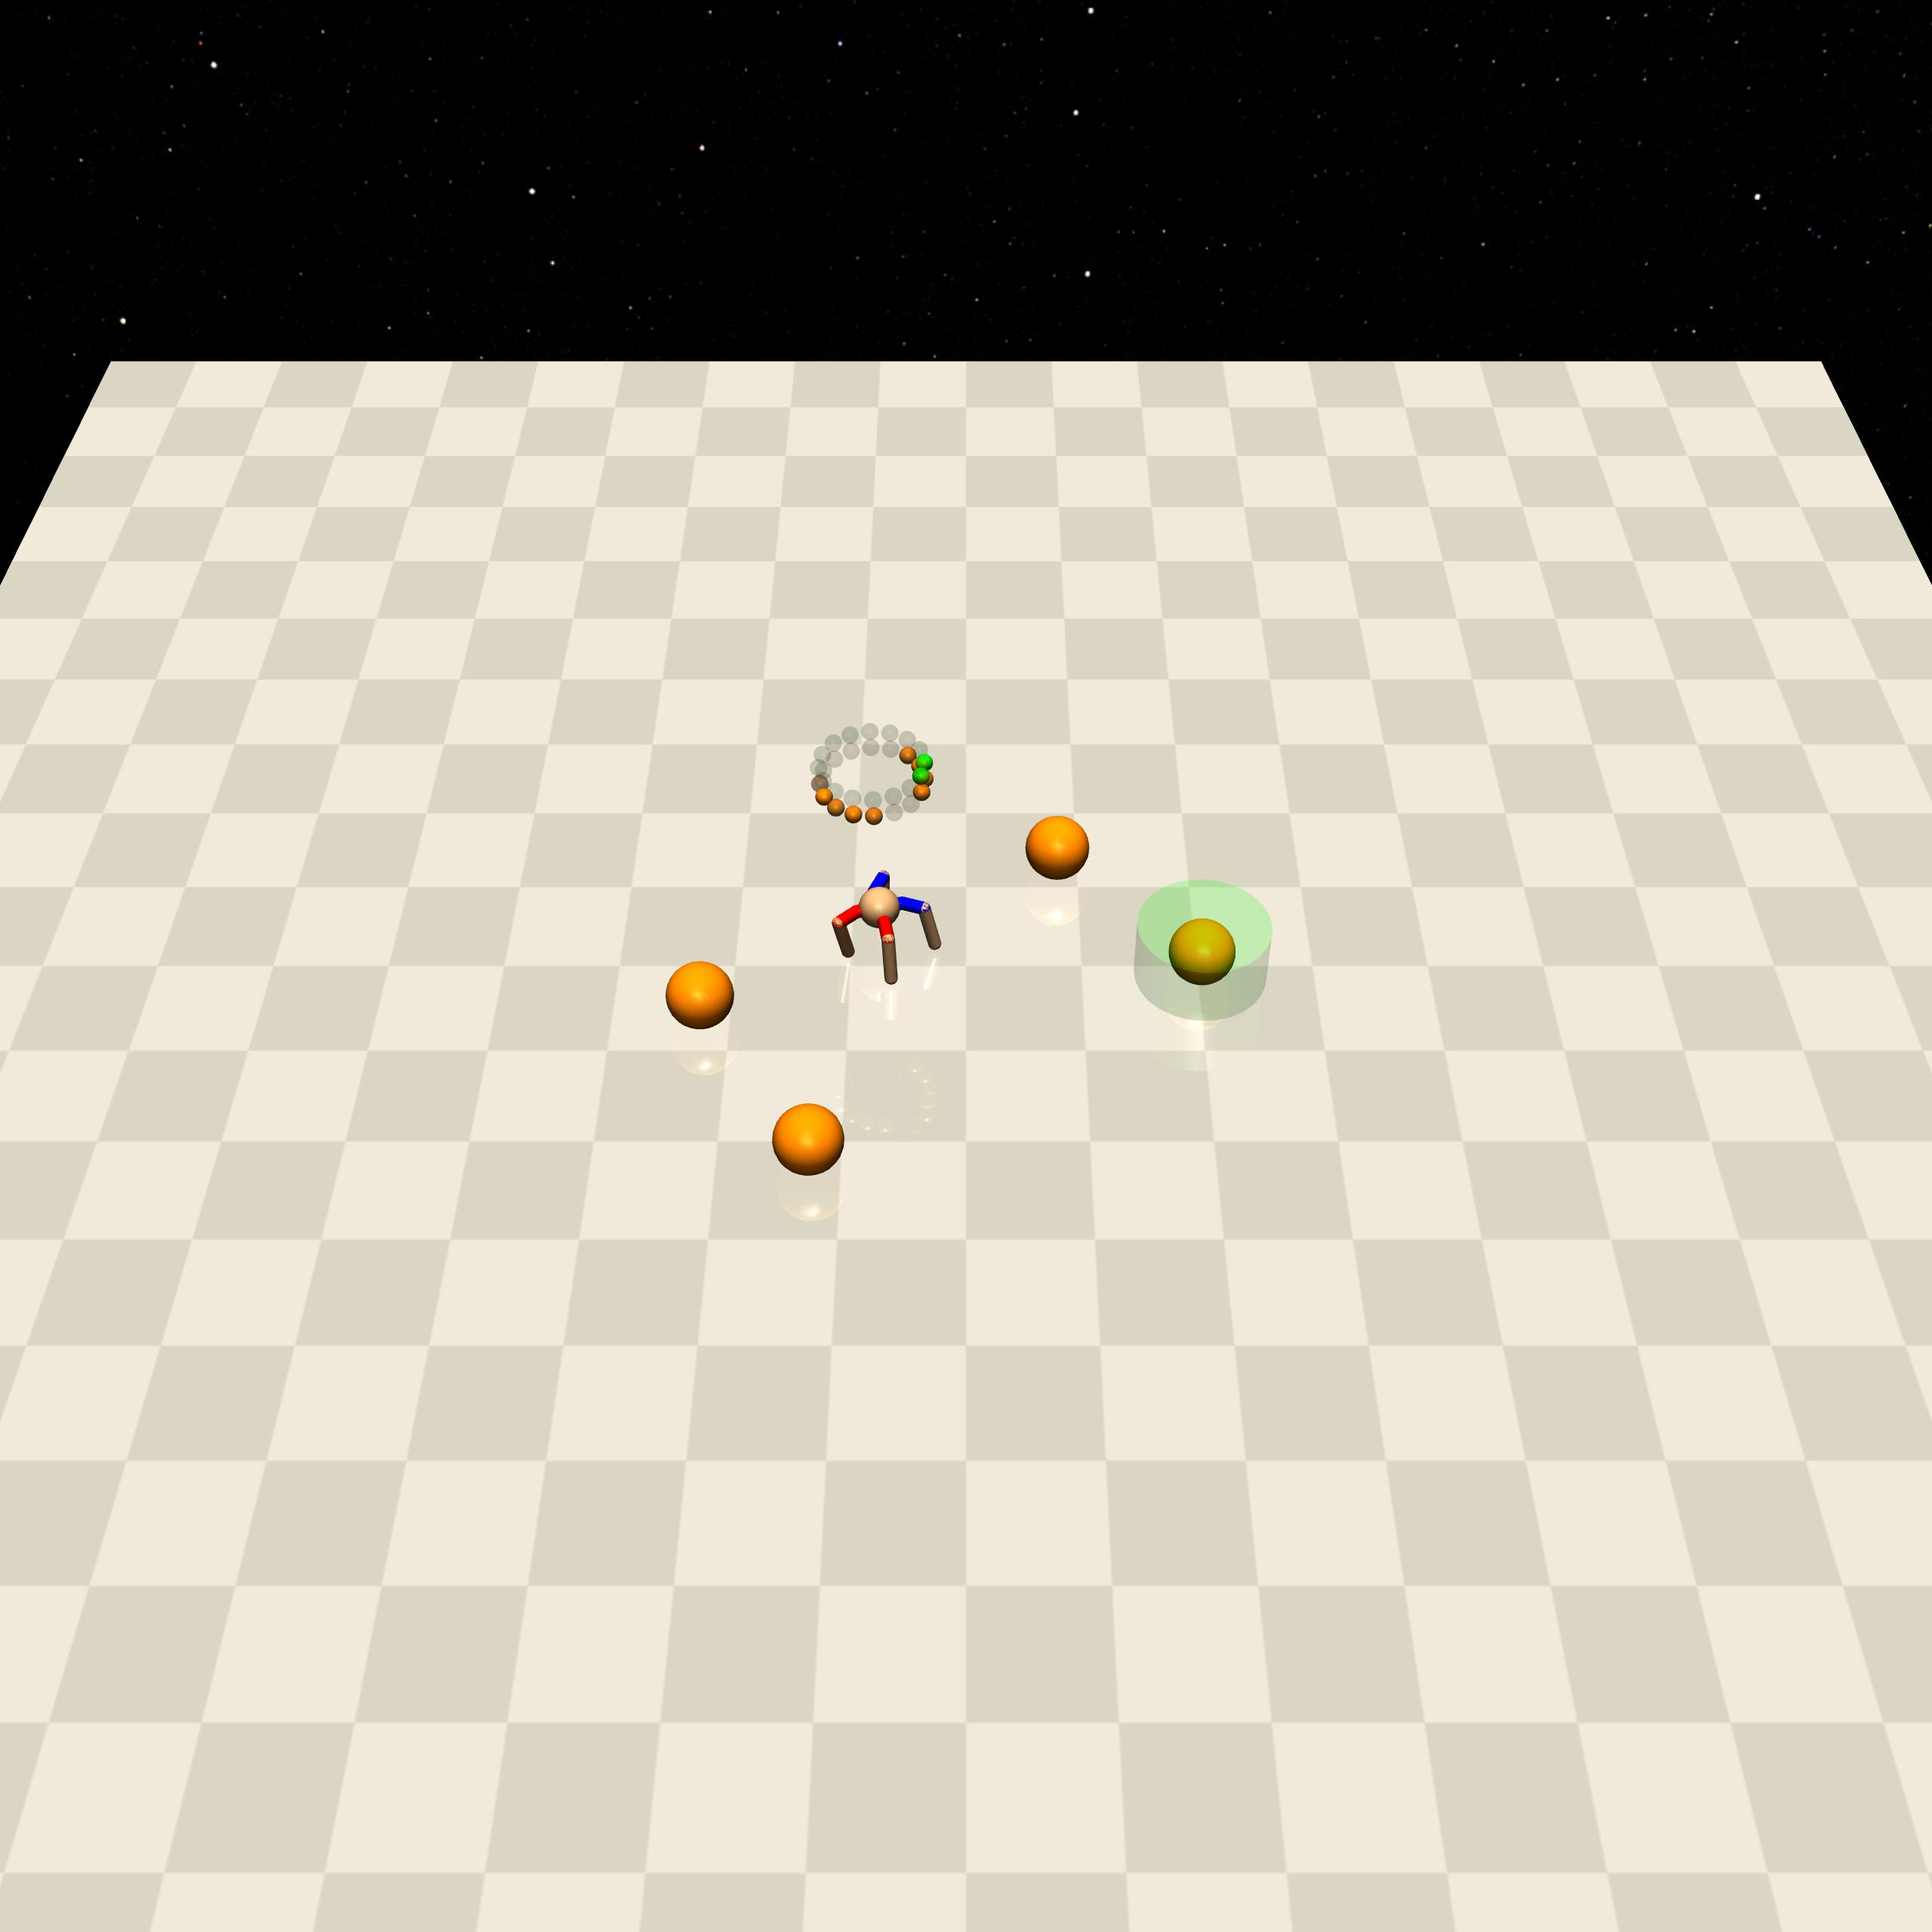
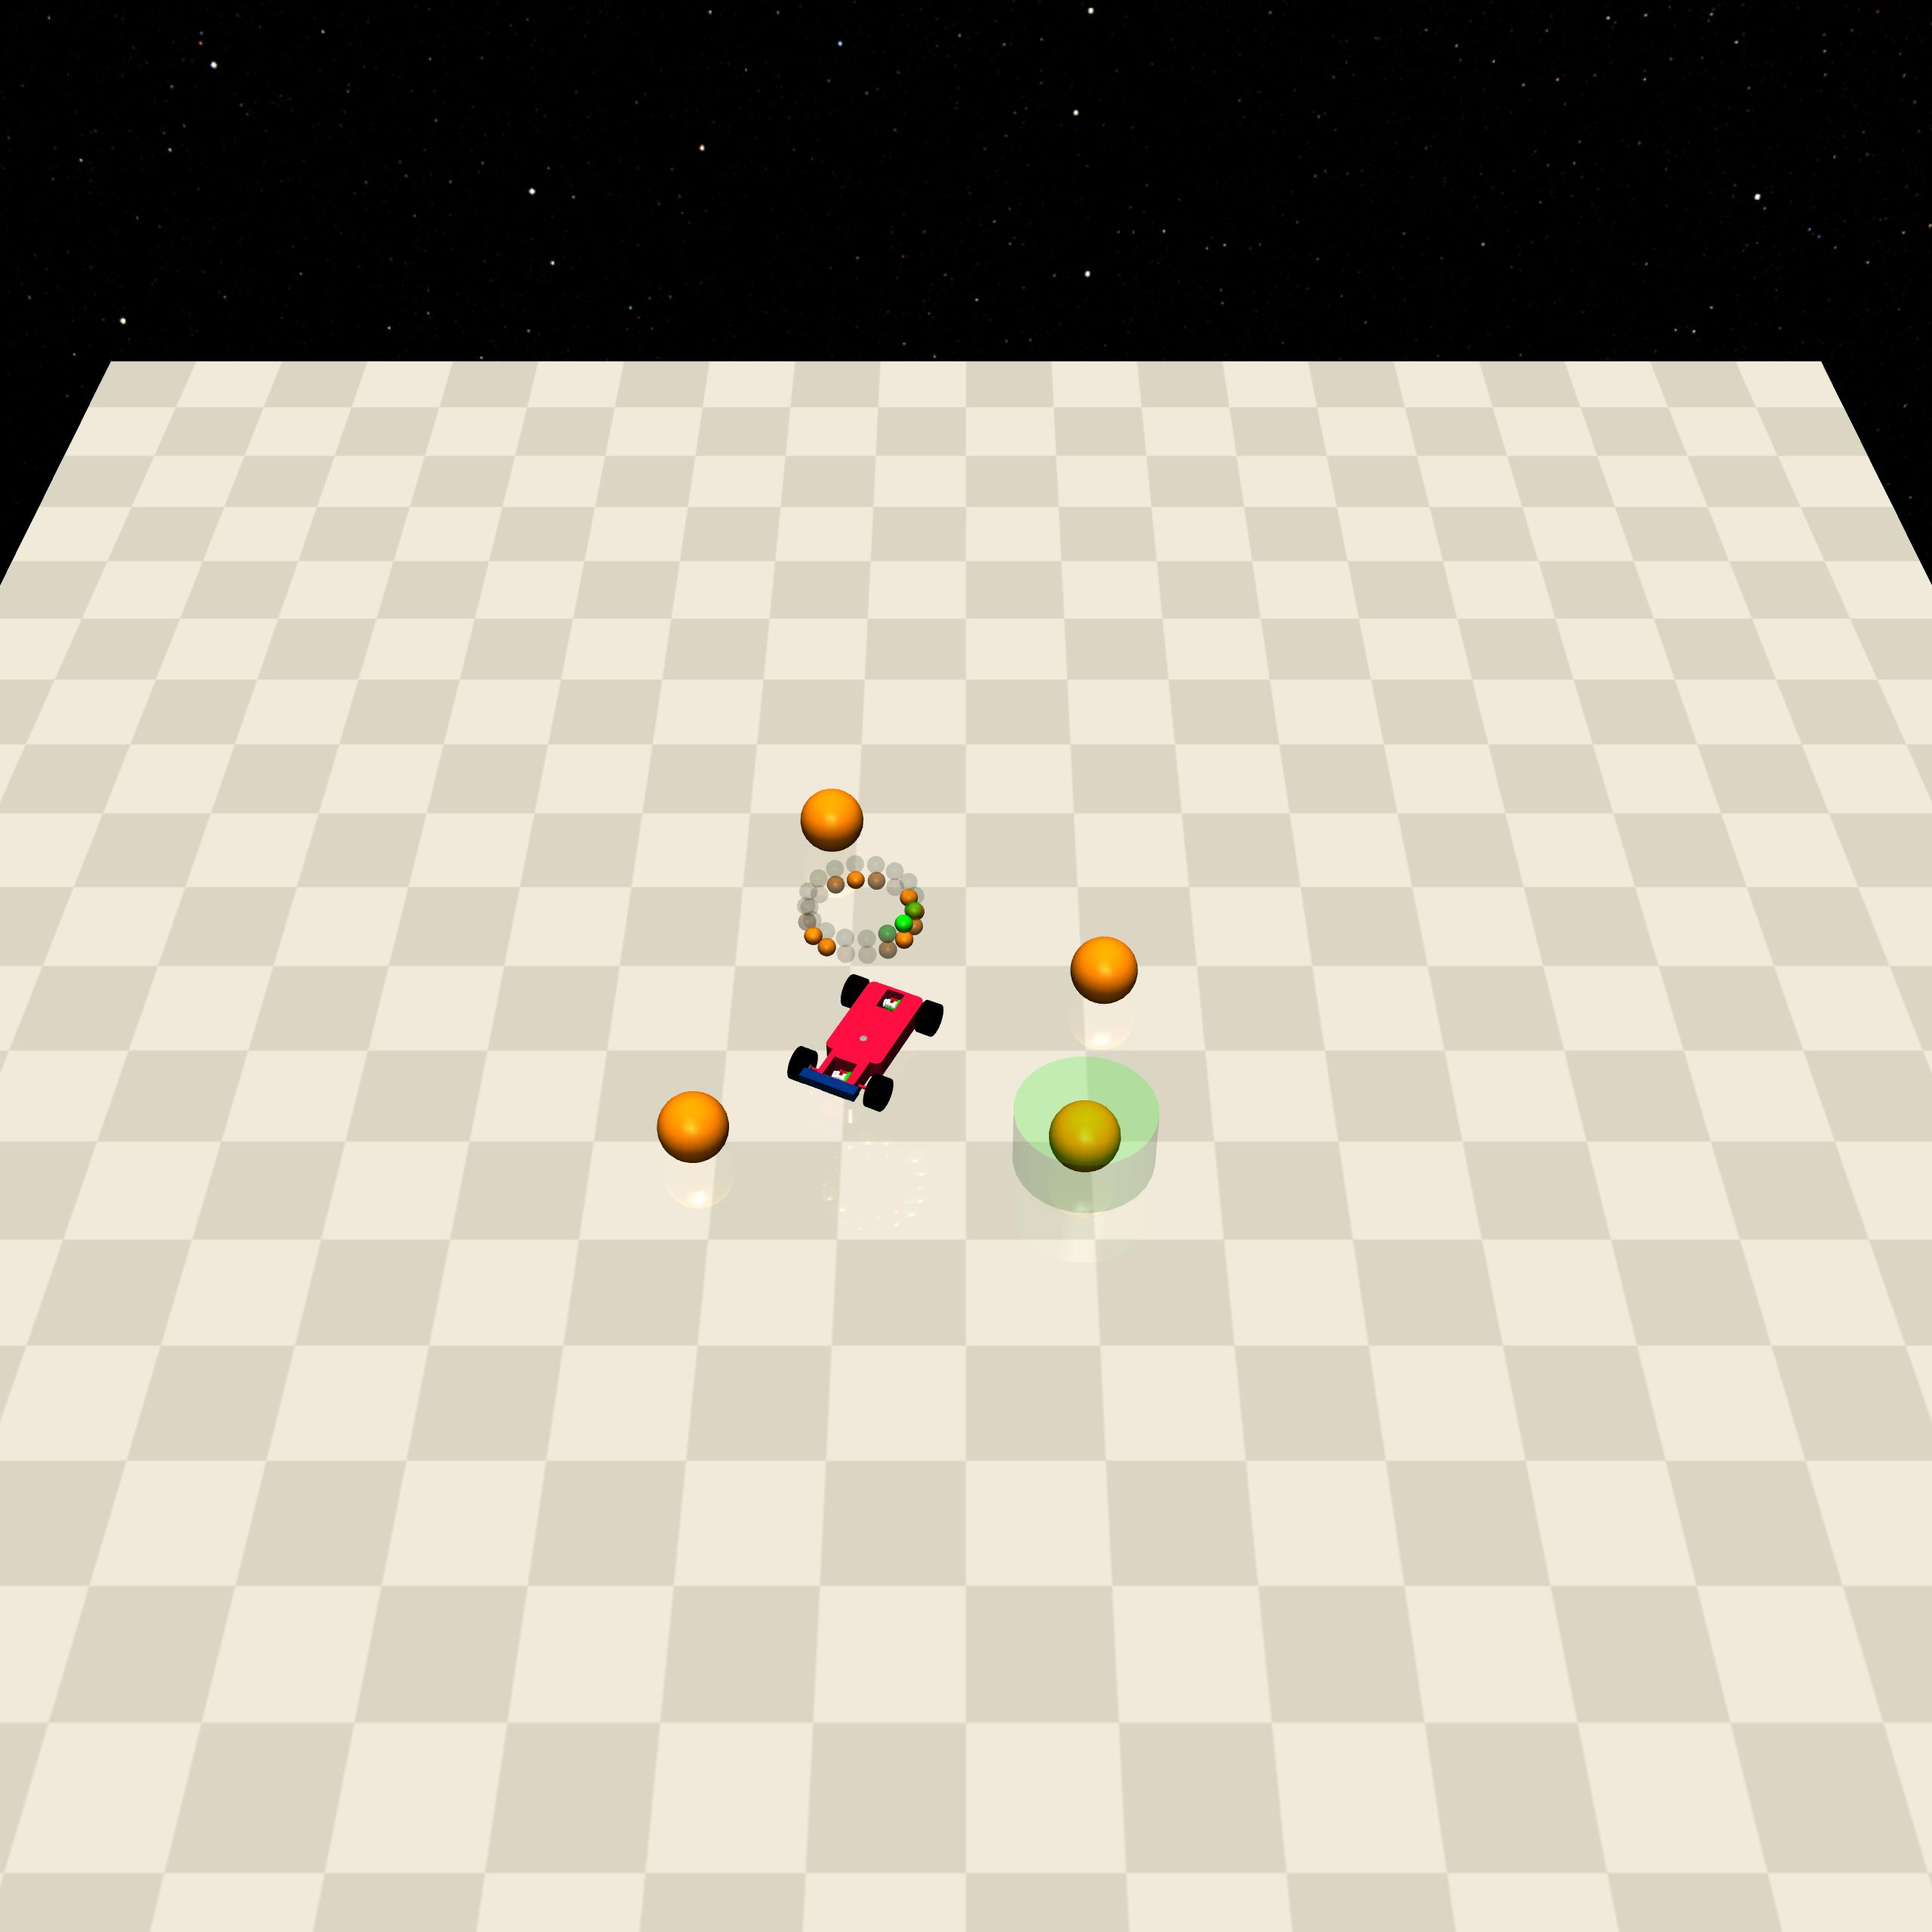
update docs

diff --git a/docs/components_of_environments/tasks.rst b/docs/components_of_environments/tasks.rst
@@ -1,8 +1,68 @@
 Tasks
 ==========
 
-.. image:: ../_static/images/tasks.png
-    :align: center
+Navigation
+----------
+
+.. list-table:: 
+
+    * - .. figure:: ../_static/images/goal0.jpeg
+            :width: 230px
+            :target: ./goal#goal0
+        .. centered:: :ref:`Goal0 <Goal0>`
+      - .. figure:: ../_static/images/goal1.jpeg
+            :width: 230px
+            :target: ./goal#goal1
+        .. centered:: :ref:`Goal1 <Goal1>`
+      - .. figure:: ../_static/images/goal2.jpeg
+            :width: 230px
+            :target: ./goal#goal2
+        .. centered:: :ref:`Goal2 <Goal2>`
+    * - .. figure:: ../_static/images/button0.jpeg
+            :width: 230px
+            :target: ./button#button0
+        .. centered:: :ref:`Button0 <Button0>`
+      - .. figure:: ../_static/images/button1.jpeg
+            :width: 230px
+            :target: ./button#button1
+        .. centered:: :ref:`Button1 <Button1>`
+      - .. figure:: ../_static/images/button2.jpeg
+            :width: 230px
+            :target: ./button#button2
+        .. centered:: :ref:`Button2 <Button2>`
+    * - .. figure:: ../_static/images/push0.jpeg
+            :width: 230px
+            :target: ./push#push0
+        .. centered:: :ref:`Push0 <Push0>`
+      - .. figure:: ../_static/images/push1.jpeg
+            :width: 230px
+            :target: ./push#push1
+        .. centered:: :ref:`Push1 <Push1>`
+      - .. figure:: ../_static/images/push2.jpeg
+            :width: 230px
+            :target: ./push#push2
+        .. centered:: :ref:`Push2 <Push2>`
+    * - .. figure:: ../_static/images/circle0.jpeg
+            :width: 230px
+            :target: ./circle#circle0
+        .. centered:: :ref:`Circle0 <Circle0>`
+      - .. figure:: ../_static/images/circle1.jpeg
+            :width: 230px
+            :target: ./circle#circle1
+        .. centered:: :ref:`Circle1 <Circle1>`
+      - .. figure:: ../_static/images/circle2.jpeg
+            :width: 230px
+            :target: ./circle#circle2
+        .. centered:: :ref:`Circle2 <Circle2>`
+    * - .. figure:: ../_static/images/coming_soon.png
+            :width: 230px
+        .. centered:: Coming soon...
+      - .. figure:: ../_static/images/coming_soon.png
+            :width: 230px
+        .. centered:: Coming soon...
+      - .. figure:: ../_static/images/coming_soon.png
+            :width: 230px
+        .. centered:: Coming soon...
 
 在Task当中，可以囊括特定Agents和Objects，进而定义环境自身的行为（如reward机制，reset机制等），从而组合为一个完整的Enviroment。
 

diff --git a/docs/components_of_environments/objects.rst b/docs/components_of_environments/objects.rst
@@ -52,7 +52,7 @@ Objects
 
     2. 环境当中的物体性质有差异，比如：有的物体可以参与计算cost，有的没有碰撞实体。下文介绍当中我们将给出提示。
     3. 所有可参与计算cost的物体根据任务难度可能不会成为约束，例如：Goal1当中碰撞vases并不产生cost。
-    4. 你可以根据需要定义或改变物体的 **cost计算公式** ， **数量** ， **位置** ， **碰撞属性** ， **密度** ， **移动范式** 等，以探索不同情况下RL算法的表现。
+    4. 你可以根据需要定义或改变物体的 **cost计算公式** ，**数量** ，**位置** ，**碰撞属性** ，**密度** ，**移动范式** 等，以探索不同情况下RL算法的表现。
 
 通用参数
 --------
@@ -164,10 +164,10 @@ Render lidar
     * - .. figure:: ../_static/images/lidar_far.jpeg
             :width: 230px
         .. centered:: far
-      - .. figure:: ../_static/images/lidar_mid.png
+      - .. figure:: ../_static/images/lidar_mid.jpeg
             :width: 230px
         .. centered:: mid
-      - .. figure:: ../_static/images/lidar_near.png
+      - .. figure:: ../_static/images/lidar_near.jpeg
             :width: 230px
         .. centered:: near
 

diff --git a/docs/introduction/about_safety_gymnasium.rst b/docs/introduction/about_safety_gymnasium.rst
@@ -12,16 +12,16 @@
 Safety-Gymnasium
 ----------------
 
-Safety-Gymnasium是为了服务于Safe RL领域研究而基于Python开发的一个 **高度模块化**， **代码精简易读** 并且 **易于自定义** 的基准环境。
+Safety-Gymnasium是为了服务于Safe RL领域研究而基于Python开发的一个 **高度模块化**，**代码精简易读** 并且 **易于自定义** 的基准环境。
 
 Feature
 ^^^^^^^^
 
 - 高度模块化，将一个环境的不同组成部分拆分为逻辑自洽的不同模块：agent, task, objects。
 - 代码精简易读，在保证 **可读性** 和 **美观性** 的前提下最大程度精简代码，每一个任务平均 **不超过100行** 代码。
-- 易于自定义， **精心设计的代码框架** 对于自定义环境的需求十分友好。
+- 易于自定义，**精心设计的代码框架** 对于自定义环境的需求十分友好。
 - 丰富可靠的环境，提供了 **Manipualtion** 和 **Vision** 两个新类别的任务。
-- 对经典Safe RL环境的良好支持与重构： **Safety-Gym** ， **Safety-Velocity**。
+- 对经典Safe RL环境的良好支持与重构： **Safety-Gym** ，**Safety-Velocity**。
 - 依赖少。
 - 易于安装。
 

diff --git a/docs/components_of_environments/agents/ant.rst b/docs/components_of_environments/agents/ant.rst
@@ -1,9 +1,21 @@
 Ant
 ==========
 
-.. image:: ../../_static/images/ant.jpeg
-    :align: center
-    :scale: 12 %
+.. list-table:: 
+
+    * - .. figure:: ../../_static/images/ant_front.jpeg
+            :width: 200px
+        .. centered:: front
+      - .. figure:: ../../_static/images/ant_back.jpeg
+            :width: 200px
+        .. centered:: back
+      - .. figure:: ../../_static/images/ant_left.jpeg
+            :width: 200px
+        .. centered:: left
+      - .. figure:: ../../_static/images/ant_right.jpeg
+            :width: 200px
+        .. centered:: right
+
 
 一个四足机器人，基于 `High-Dimensional Continuous Control Using Generalized Advantage Estimation <https://arxiv.org/abs/1506.02438>`__ 当中提出的模型，在三维空间中运动，由一个躯干和四条腿连接在一起组成，每条腿由两个铰链连接肢体组成，同时又通过铰链与躯干连接。需要通过对八个铰链的驱动器施加力矩来协调四条腿向目标方向移动。
 

diff --git a/docs/components_of_environments/agents/racecar.rst b/docs/components_of_environments/agents/racecar.rst
@@ -1,9 +1,20 @@
 Racecar
 ==========
 
-.. image:: ../../_static/images/racecar.jpeg
-    :align: center
-    :scale: 12 %
+.. list-table:: 
+
+    * - .. figure:: ../../_static/images/racecar_front.jpeg
+            :width: 200px
+        .. centered:: front
+      - .. figure:: ../../_static/images/racecar_back.jpeg
+            :width: 200px
+        .. centered:: back
+      - .. figure:: ../../_static/images/racecar_left.jpeg
+            :width: 200px
+        .. centered:: left
+      - .. figure:: ../../_static/images/racecar_right.jpeg
+            :width: 200px
+        .. centered:: right
 
 一个更接近现实中汽车动力学的机器人，在三维空间中运动，它有两个位置伺服，一个调整后轮速度至目标速度，另一个调整前轮转向角度至目标角度。Racecar参考了广为人知的MIT Racecar项目的动力学模型。对于它来说，要完成指定目标，必须像人驾驶汽车一样，协调好轮胎的转向角度和速度之间的关系。
 

diff --git a/docs/components_of_environments/agents/point.rst b/docs/components_of_environments/agents/point.rst
@@ -1,9 +1,20 @@
 Point
 ==========
 
-.. image:: ../../_static/images/point.jpeg
-    :align: center
-    :scale: 12 %
+.. list-table:: 
+
+    * - .. figure:: ../../_static/images/point_front.jpeg
+            :width: 200px
+        .. centered:: front
+      - .. figure:: ../../_static/images/point_back.jpeg
+            :width: 200px
+        .. centered:: back
+      - .. figure:: ../../_static/images/point_left.jpeg
+            :width: 200px
+        .. centered:: left
+      - .. figure:: ../../_static/images/point_right.jpeg
+            :width: 200px
+        .. centered:: right
 
 一个被约束在2D平面上的简单机器人，拥有两个驱动器，一个用于转动，另一个用于向前/向后移动。这种分解控制方案使得机器人特别容易控制导航。在它前面有一个小正方形，这样既可以更容易直观地确定机器人的方向，也可以帮助Point推动出现在Push中的box。
 

diff --git a/docs/components_of_environments/agents.rst b/docs/components_of_environments/agents.rst
@@ -3,19 +3,19 @@ Agents
 
 .. list-table:: 
 
-    * - .. figure:: ../_static/images/point.jpeg
+    * - .. figure:: ../_static/images/point_front.jpeg
             :width: 230px
             :target: agents/point.html
         .. centered:: :doc:`agents/point`
-      - .. figure:: ../_static/images/car.jpeg
+      - .. figure:: ../_static/images/car_front.jpeg
             :width: 230px
             :target: agents/car.html
         .. centered:: :doc:`agents/car`
-      - .. figure:: ../_static/images/racecar.jpeg
+      - .. figure:: ../_static/images/racecar_front.jpeg
             :width: 230px
             :target: agents/racecar.html
         .. centered:: :doc:`agents/racecar`
-    * - .. figure:: ../_static/images/ant.jpeg
+    * - .. figure:: ../_static/images/ant_front.jpeg
             :width: 230px
             :target: agents/ant.html
         .. centered:: :doc:`agents/ant`

diff --git a/docs/components_of_environments/agents/car.rst b/docs/components_of_environments/agents/car.rst
@@ -1,9 +1,20 @@
 Car
 ==========
 
-.. image:: ../../_static/images/car.jpeg
-    :align: center
-    :scale: 12 %
+.. list-table:: 
+
+    * - .. figure:: ../../_static/images/car_front.jpeg
+            :width: 200px
+        .. centered:: front
+      - .. figure:: ../../_static/images/car_back.jpeg
+            :width: 200px
+        .. centered:: back
+      - .. figure:: ../../_static/images/car_left.jpeg
+            :width: 200px
+        .. centered:: left
+      - .. figure:: ../../_static/images/car_right.jpeg
+            :width: 200px
+        .. centered:: right
 
 一个稍微复杂一些的机器人，在三维空间中运动，它有两个独立驱动的平行车轮和一个自由滚动的后轮。对于这个机器人来说，无论是转向还是向前/向后移动都需要协调两个驱动器。它在设计上类似于用于教育的简单机器人。
 

diff --git a/docs/environments/safe_navigation.rst b/docs/environments/safe_navigation.rst
@@ -2,7 +2,6 @@ Safe Navigation
 ================
 
 .. list-table:: 
-    :header-rows: 1
 
     * - .. figure:: ../_static/images/goal0.jpeg
             :width: 230px
